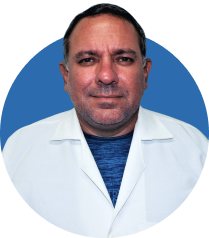
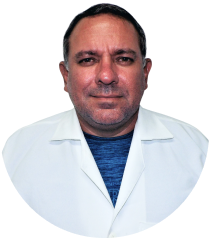
feat: ajustes nos tamanhos das imagens

Changed region(s): [[0.0, 0.1471, 0.3732, 0.6471], [0.6603, 0.1471, 1.0, 0.5882]]

diff --git a/src/pages/Team.jsx b/src/pages/Team.jsx
@@ -49,7 +49,7 @@ export default function Team() {
               key={person.id}
               className="flex items-center justify-between gap-4 border-b pb-6 border-grey-700"
             >
-              <img className="bg-bg-img-dr bg-no-repeat bg-bottom w-[210px] h-[235px]" src={person.imagem} alt={` imagem ${person.name}`} />{" "}
+              <img className="bg-bg-img-dr bg-no-repeat bg-bottom w-[225px] h-[240px] rounded-full" src={person.imagem} alt={` imagem ${person.name}`} />{" "}
               <div className="flex flex-col ">
                 <div className="flex items-center gap-2">
                   <h2 className="text-black text-lg font-semibold">{person.name}</h2>
